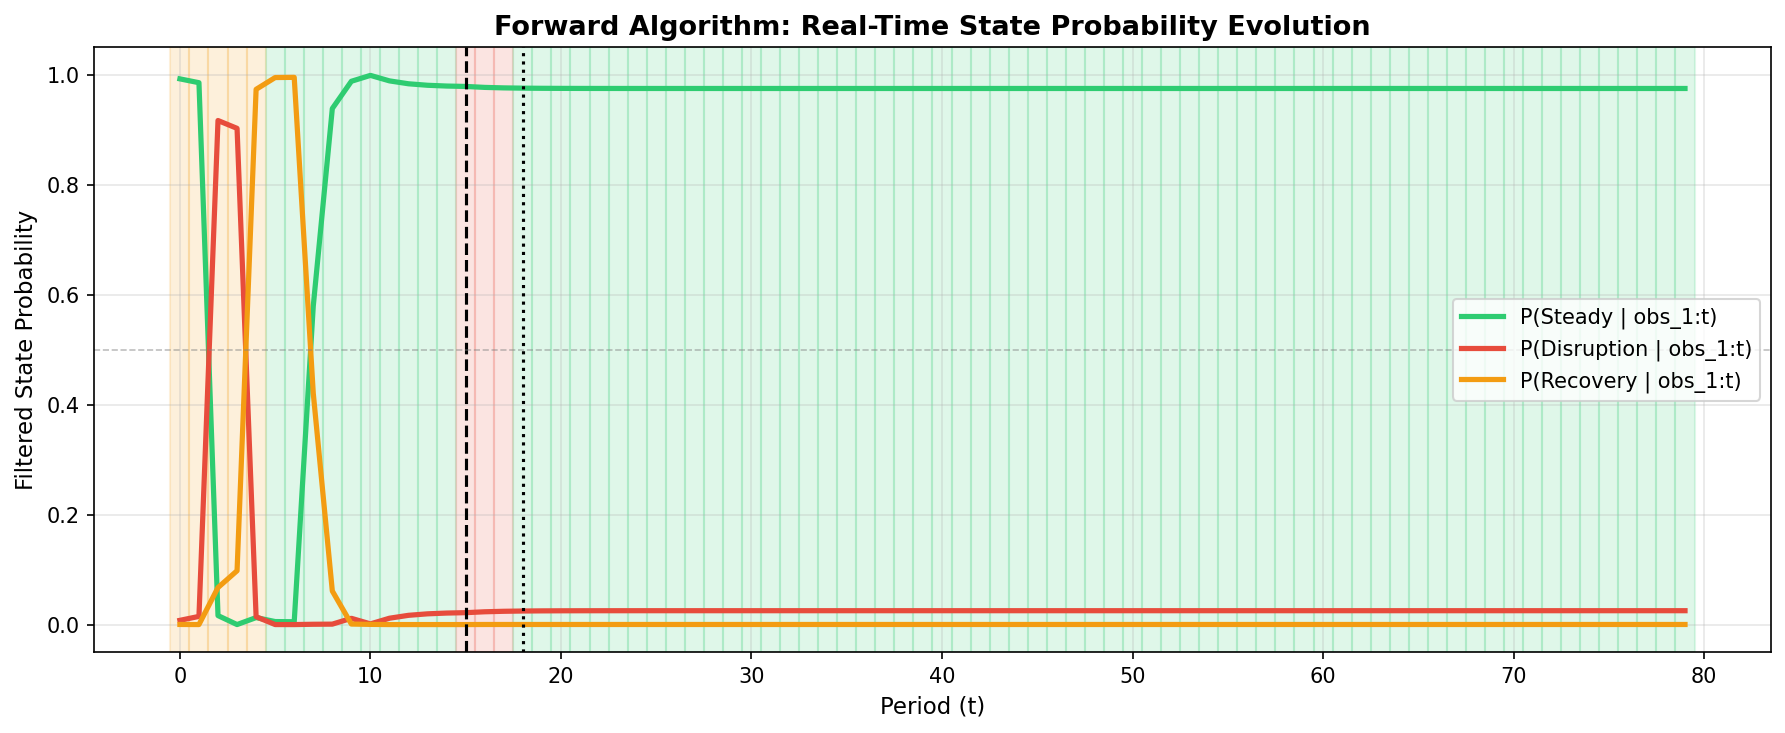
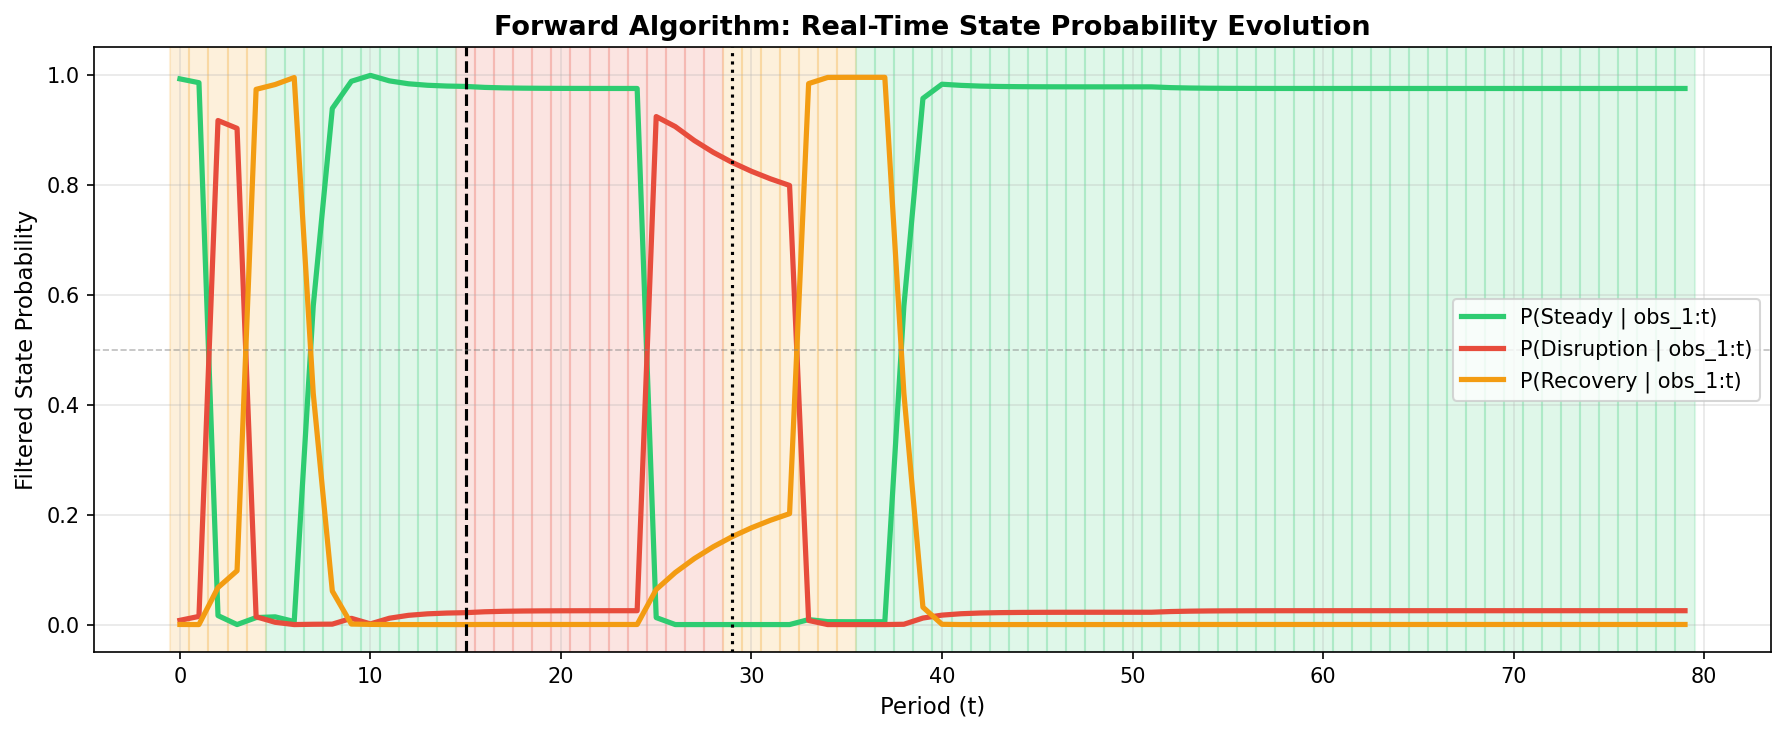
Improve visualizations: longer disruption example, observation heatmap
- visualize.py: Select test runs with disruption >12 weeks for hero
  figure and raw signals (now uses run 3, duration=14 weeks).
  Add observation frequency heatmap showing signal-to-noise ratio.
- report.md: Add Section 5.4 (observation frequency heatmap) and
  renumber 5.4->5.5. Regenerate all plots.
- Hero figure now clearly shows Viterbi detecting the disruption
- Raw signals show full Steady->Disruption->Recovery->Steady cycle

Changed region(s): [[0.2773, 0.06, 0.6779, 0.9004], [0.1232, 0.09, 0.1849, 0.1201]]

diff --git a/hmm_project/report.html b/hmm_project/report.html
@@ -352,7 +352,11 @@ $$P(S\_{t+1} \mid S\_t, S\_{t-1}, \ldots, S\_1) = P(S\_{t+1} \mid S\_t)$$</p>
 <p><strong>Emission matrix:</strong></p>
 <p>$$\hat{b}\_{i}(o) = \frac{C\_{B}(i, o) + \alpha}{\sum\_{o'=0}^{M-1} [C\_{B}(i, o') + \alpha]}, \quad \text{where } C\_{B}(i, o) = \sum\_{k=1}^{K} \sum\_{t=1}^{T\_{k}} I(s\_{t}^{(k)} = i,\ o\_{t}^{(k)} = o)$$</p>
 <p>Here alpha = 1 is the Laplace smoothing constant, which prevents zero probabilities (and thus log(0) errors in Forward/Viterbi) for rare state-observation combinations.</p>
-<h3>5.4 Trained Parameters</h3>
+<h3>5.4 Observation Signal-to-Noise Ratio</h3>
+<p><img alt="Observation Frequency Heatmap" src="file:///C:/Users/aidan/Desktop/supply_chain_sim-main_or/hmm_project/results/observation_frequency_heatmap.png" /><br />
+<em>Figure 3a: Observation frequency per state from the test data. Each cell shows the percentage (and count) of periods in that state emitting that observation. The strong diagonal pattern confirms that each state produces a distinct emission signature.</em></p>
+<p>The heatmap reveals clear signal separation: Steady State overwhelmingly emits observation 1 (None-BL, Normal-Ship, 64.6%), Disruption concentrates on observation 3 (High-BL, Zero/Low-Ship, 55.2%), and Recovery is dominated by observation 5 (High-BL, Surge-Ship, 34.8%) alongside observation 3 (42.7%). The overlap between Disruption and Recovery on observation 3 reflects the physical reality that both states involve high backlogs — the distinguishing signal is the shipment level (Zero/Low vs. Surge).</p>
+<h3>5.5 Trained Parameters</h3>
 <p><img alt="Trained Matrices" src="file:///C:/Users/aidan/Desktop/supply_chain_sim-main_or/hmm_project/results/trained_matrices.png" /><br />
 <em>Figure 3: Trained HMM parameters. Left: Transition matrix $A$ showing high self-transition probabilities (0.978 for Steady, 0.921 for Disruption, 0.870 for Recovery). Right: Emission matrix $B$ showing clear state-observation separation.</em></p>
 <p><strong>Key observations:</strong><br />

diff --git a/hmm_project/visualize.py b/hmm_project/visualize.py
@@ -15,7 +15,7 @@ from matplotlib.colors import ListedColormap
 
 from config import (
     STEADY, DISRUPTION, RECOVERY, STATE_NAMES,
-    N_OBS, OBS_NAMES, DISRUPTION_ONSET
+    N_OBS, OBS_NAMES, DISRUPTION_ONSET, PRODUCTION_MAX, RECOVERY_BACKLOG_THRESHOLD
 )
 
 RESULTS_DIR = os.path.join(os.path.dirname(__file__), "results")
@@ -326,18 +326,98 @@ def plot_raw_signals(run_idx=0):
     print(f"  Saved: {path}")
 
 
+def plot_observation_frequency_heatmap(test_states, test_obs):
+    """
+    Heatmap of observation frequencies per state (raw counts from test data).
+    Visualizes the signal-to-noise ratio: how distinctly each state
+    maps to specific observations.
+    """
+    n_states = 3
+    n_obs = N_OBS
+
+    # Count observations per state
+    counts = np.zeros((n_states, n_obs), dtype=int)
+    for state_seq, obs_seq in zip(test_states, test_obs):
+        for s, o in zip(np.asarray(state_seq), np.asarray(obs_seq)):
+            counts[int(s), int(o)] += 1
+
+    # Row-normalize to get empirical emission frequencies
+    row_sums = counts.sum(axis=1, keepdims=True)
+    freq = np.where(row_sums > 0, counts / row_sums, 0)
+
+    fig, ax = plt.subplots(figsize=(10, 5))
+    im = ax.imshow(freq, cmap='YlGnBu', vmin=0, vmax=freq.max(), aspect='auto')
+
+    for i in range(n_states):
+        for o in range(n_obs):
+            pct = 100 * freq[i, o]
+            cnt = counts[i, o]
+            text_color = 'white' if freq[i, o] > 0.4 else 'black'
+            ax.text(o, i, f"{pct:.1f}%\n({cnt})",
+                    ha='center', va='center', fontsize=10, color=text_color,
+                    fontweight='bold')
+
+    ax.set_xticks(range(n_obs))
+    ax.set_yticks(range(n_states))
+    short_labels = ["None-BL\nZero/Low-Ship", "None-BL\nNormal-Ship", "None-BL\nSurge-Ship",
+                    "High-BL\nZero/Low-Ship", "High-BL\nNormal-Ship", "High-BL\nSurge-Ship"]
+    ax.set_xticklabels(short_labels, fontsize=8)
+    ax.set_yticklabels(STATE_NAMES, fontsize=11)
+    ax.set_xlabel("Observation", fontsize=12)
+    ax.set_ylabel("True State", fontsize=12)
+    ax.set_title("Observation Frequency per State (Test Data)\n"
+                 "Signal-to-Noise: How distinctly each state maps to observations",
+                 fontsize=13, fontweight='bold')
+    plt.colorbar(im, ax=ax, label="Frequency (row-normalized)")
+
+    plt.tight_layout()
+    path = os.path.join(RESULTS_DIR, "observation_frequency_heatmap.png")
+    plt.savefig(path, dpi=150, bbox_inches='tight')
+    plt.close()
+    print(f"  Saved: {path}")
+
+
+def find_best_example_run(test_metadata, min_duration=12):
+    """
+    Find a test run with disruption duration > min_duration weeks.
+    Returns the index of the best run for visualization.
+    """
+    best_idx = None
+    best_dur = 0
+    for i, meta in enumerate(test_metadata):
+        onset = meta["onset"]
+        recovery = meta.get("recovery_time")
+        if recovery is not None:
+            duration = recovery - onset
+            # Prefer runs with moderate duration (13-20 weeks) for clearest visuals
+            if duration > min_duration and (best_idx is None or
+                (13 <= duration <= 20 and best_dur not in range(13, 21)) or
+                (best_dur not in range(13, 21) and duration > best_dur)):
+                best_idx = i
+                best_dur = duration
+    # Fallback: any recovered run
+    if best_idx is None:
+        for i, meta in enumerate(test_metadata):
+            if meta.get("recovery_time") is not None:
+                best_idx = i
+                break
+    if best_idx is None:
+        best_idx = 0
+    return best_idx
+
+
 def generate_all_plots(results):
     """Generate all visualization plots."""
     os.makedirs(RESULTS_DIR, exist_ok=True)
 
     print("\nGenerating plots...")
 
-    # Find a good example run (one that has all 3 states and recovered)
-    best_idx = 0
-    for i, meta in enumerate(results["test_metadata"]):
-        if meta.get("recovery_time") is not None:
-            best_idx = i
-            break
+    # Find a test run with disruption > 12 weeks for clear visual demonstration
+    best_idx = find_best_example_run(results["test_metadata"], min_duration=12)
+    best_meta = results["test_metadata"][best_idx]
+    best_dur = best_meta.get("recovery_time", 0) - best_meta["onset"]
+    print(f"  Selected test run {best_idx} (disruption duration: {best_dur} weeks) "
+          f"for hero figure and raw signals.")
 
     plot_hero_figure(
         results["test_states"], results["test_obs"],
@@ -359,6 +439,10 @@ def generate_all_plots(results):
     plot_trained_matrices(results["model"])
 
     plot_raw_signals(run_idx=best_idx)
+
+    plot_observation_frequency_heatmap(
+        results["test_states"], results["test_obs"]
+    )
 
     print(f"\nAll plots saved to: {RESULTS_DIR}")
 

diff --git a/hmm_project/report.md b/hmm_project/report.md
@@ -198,7 +198,14 @@ $$\hat{b}\_{i}(o) = \frac{C\_{B}(i, o) + \alpha}{\sum\_{o'=0}^{M-1} [C\_{B}(i, o
 
 Here alpha = 1 is the Laplace smoothing constant, which prevents zero probabilities (and thus log(0) errors in Forward/Viterbi) for rare state-observation combinations.
 
-### 5.4 Trained Parameters
+### 5.4 Observation Signal-to-Noise Ratio
+
+![Observation Frequency Heatmap](results/observation_frequency_heatmap.png)
+*Figure 3a: Observation frequency per state from the test data. Each cell shows the percentage (and count) of periods in that state emitting that observation. The strong diagonal pattern confirms that each state produces a distinct emission signature.*
+
+The heatmap reveals clear signal separation: Steady State overwhelmingly emits observation 1 (None-BL, Normal-Ship, 64.6%), Disruption concentrates on observation 3 (High-BL, Zero/Low-Ship, 55.2%), and Recovery is dominated by observation 5 (High-BL, Surge-Ship, 34.8%) alongside observation 3 (42.7%). The overlap between Disruption and Recovery on observation 3 reflects the physical reality that both states involve high backlogs — the distinguishing signal is the shipment level (Zero/Low vs. Surge).
+
+### 5.5 Trained Parameters
 
 ![Trained Matrices](results/trained_matrices.png)
 *Figure 3: Trained HMM parameters. Left: Transition matrix $A$ showing high self-transition probabilities (0.978 for Steady, 0.921 for Disruption, 0.870 for Recovery). Right: Emission matrix $B$ showing clear state-observation separation.*
